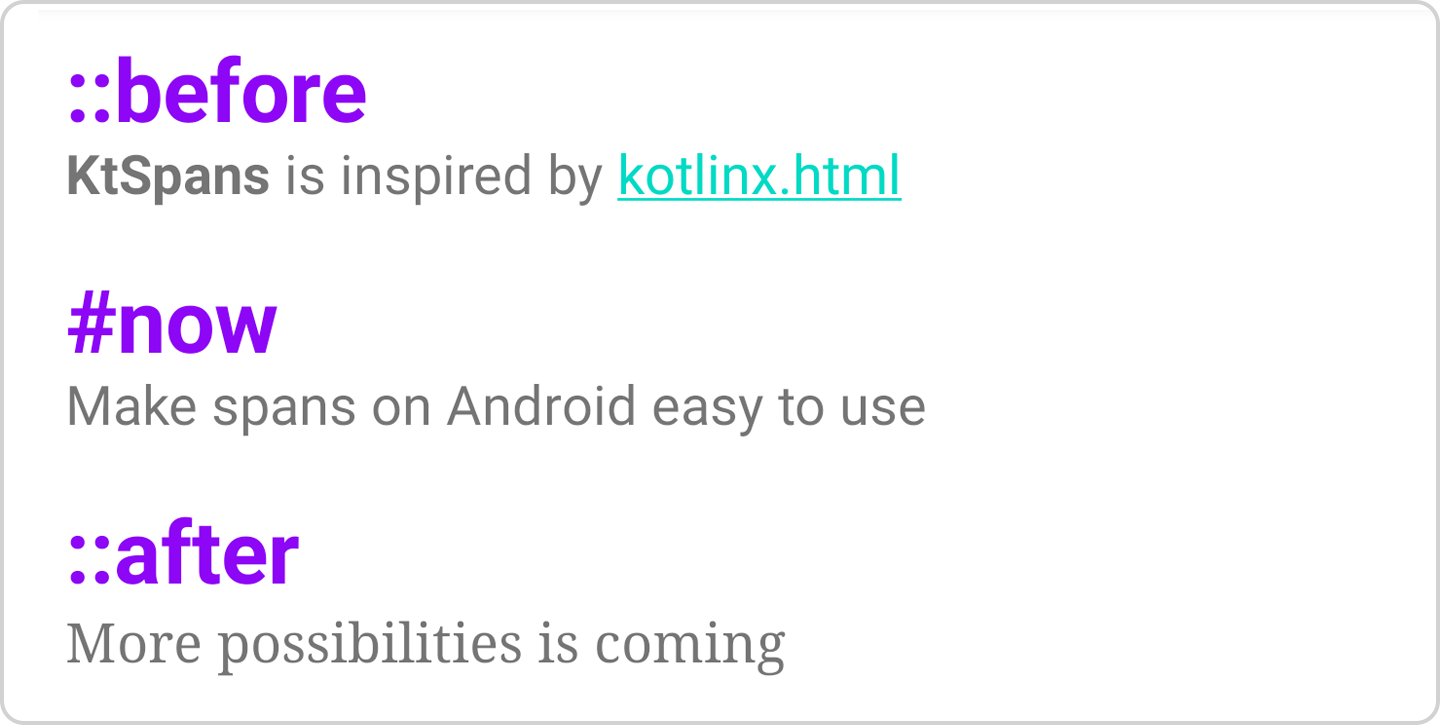
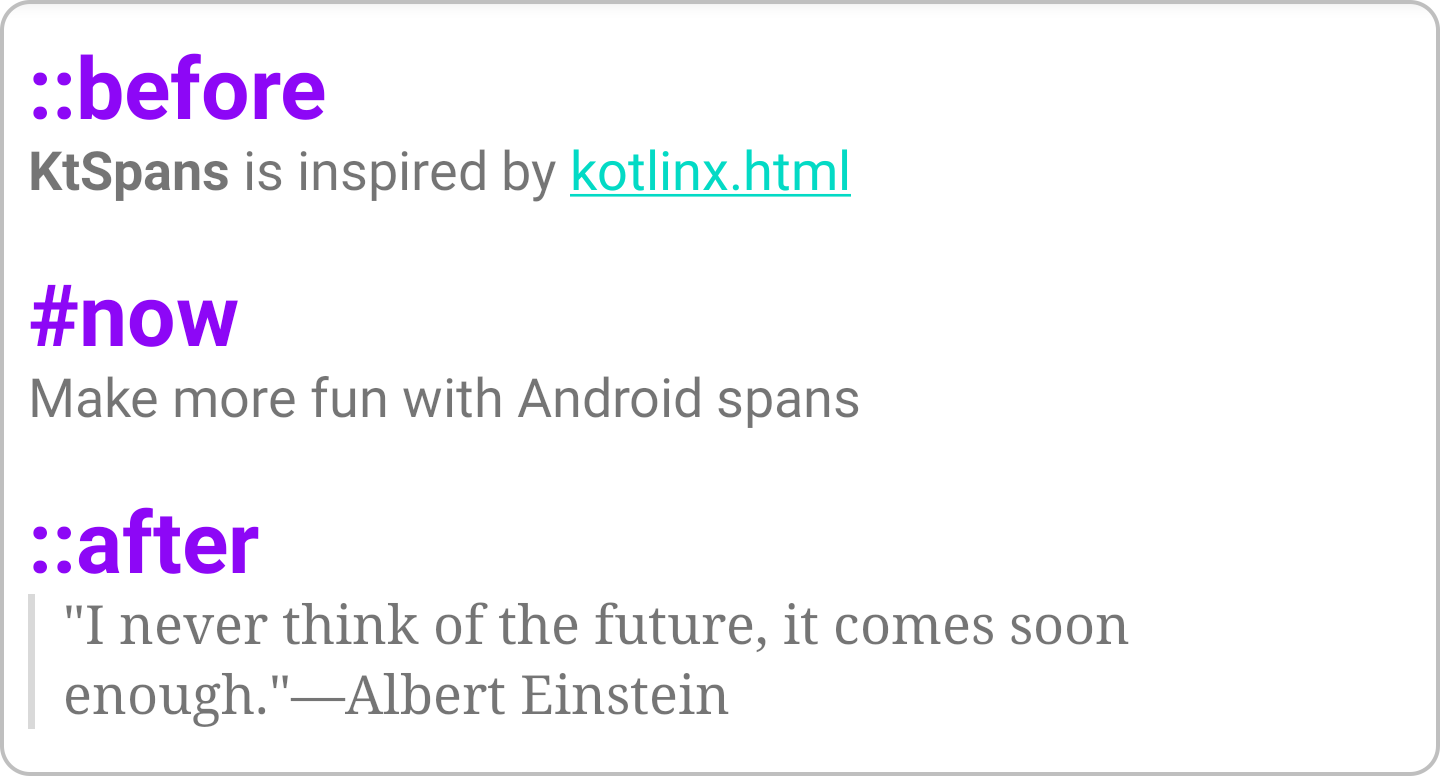
Update sample and README.md

diff --git a/sample/src/main/java/com/dokar/ktspansexample/MainActivity.kt b/sample/src/main/java/com/dokar/ktspansexample/MainActivity.kt
@@ -121,6 +121,17 @@ class MainActivity : AppCompatActivity() {
                     +"View custom tags"
                 }
             }
+            br {}
+
+            p {
+                attrs {
+                    fontStyle = Typeface.BOLD
+                    align = Layout.Alignment.ALIGN_CENTER
+                }
+                clickable({ showAbout() }) {
+                    +"Ideas"
+                }
+            }
         }
     }
 
@@ -361,6 +372,47 @@ class MainActivity : AppCompatActivity() {
                 }
             }
 
+            +footer()
+        }
+    }
+
+    private fun showAbout() {
+        textView.text = createSpanned {
+            style {
+                h3 {
+                    color = 0xFF8D07F6.toInt()
+                }
+                quote {
+                    stripeColor = 0x72AAAAAA
+                    stripeWidth = 2.dp
+                    gapWidth = 8.dp
+                }
+                "serif-font" {
+                    fontFamily = Typeface.SERIF
+                }
+            }
+
+            h3 { +"::before" }
+            p {
+                b { +"KtSpans" }
+                +" is inspired by "
+                a("https://github.com/Kotlin/kotlinx.html") {
+                    +"kotlinx.html"
+                }
+            }
+            br {}
+            h3 { +"#now" }
+            p {
+                +"Make more fun with Android spans"
+            }
+            br {}
+            h3 { +"::after" }
+            quote {
+                className = "serif-font"
+                +"\"I never think of the future, it comes soon enough.\"—Albert Einstein"
+            }
+
+            br {}
             +footer()
         }
     }

diff --git a/sample/src/main/java/com/dokar/ktspansexample/ktspans.ext.kt b/sample/src/main/java/com/dokar/ktspansexample/ktspans.ext.kt
@@ -6,15 +6,16 @@ import com.dokar.ktspansexample.spans.DashedHrSpan
 // extension function for span dsl
 @SpanTagMarker
 inline fun Tag.dashedHr(crossinline body: DashedHr.() -> Unit) {
-    val tag = DashedHr(root)
-    tag.body()
+    val tag = DashedHr(root).also(body)
     // Generate default attributes if it does not exists.
     root!!.defaultStyle.dashedHr {}
     // Apply attributes
     val attrs = (tag.attrs ?: root!!.attrs(tag.name)) as DashedHrAttributes
     val height = attrs.height.value
+    // color is built-in attr in Attributes
     val color = attrs.color
-    // Insert into parent tag
+    // Insert into parent tag, if isBlockElement = true, a new line
+    // will be inserted after tag
     insertTag(tag, arrayOf(DashedHrSpan(height, color)), isBlockElement = true)
 }
 
@@ -30,9 +31,7 @@ inline fun StyleSheet.dashedHr(body: DashedHrAttributes.() -> Unit) {
 // extension function for fullAttrs
 @StyleTagMarker
 inline fun DashedHr.fullAttrs(body: DashedHrAttributes.() -> Unit) {
-    val attrs = DashedHrAttributes()
-    attrs.body()
-    this.attrs = attrs
+    this.attrs = DashedHrAttributes().also(body)
 }
 
 // custom attributes

diff --git a/README.md b/README.md
@@ -14,21 +14,26 @@ Add dependency to project:
 implementation 'io.github.dokar3:ktspans:1.0.3'
 ```
 
-Create our span like this:
+Create spanned:
 
 ```kotlin
 textView.text = createSpanned {
     style {
-        h3 { 
-            color = 0xFF8D07F6.toInt() 
+        h3 {
+            color = 0xFF8D07F6.toInt()
         }
-        "serif" { 
-            fontFamily = Typeface.SERIF 
+        quote {
+            stripeColor = 0x72AAAAAA
+            stripeWidth = 2.dp
+            gapWidth = 8.dp
+        }
+        "serif-font" {
+            fontFamily = Typeface.SERIF
         }
     }
 
     h3 { +"::before" }
-    p { 
+    p {
         b { +"KtSpans" }
         +" is inspired by "
         a("https://github.com/Kotlin/kotlinx.html") {
@@ -38,18 +43,18 @@ textView.text = createSpanned {
     br {}
     h3 { +"#now" }
     p {
-        +"Make spans on Android easy to use"
+        +"Make more fun with Android spans"
     }
     br {}
     h3 { +"::after" }
-    p {
-        className = "serif"
-        +"More possibilities is comming"
+    quote {
+        className = "serif-font"
+        +"\"I never think of the future, it comes soon enough.\"—Albert Einstein"
     }
 }
 ```
 
-And we got this:
+The result:
 
 ![](./arts/screenshot_01_clipped.png)
 
@@ -219,9 +224,7 @@ class DashedHr(root: IRoot?) : SelfClosingTag(NAME, root) {
 ```kotlin
 @StyleTagMarker
 inline fun DashedHr.fullAttrs(body: DashedHrAttributes.() -> Unit) {
-    val attrs = DashedHrAttributes()
-    attrs.body()
-    this.attrs = attrs
+    this.attrs = DashedHrAttributes().also(body)
 }
 ```
 
@@ -230,8 +233,7 @@ inline fun DashedHr.fullAttrs(body: DashedHrAttributes.() -> Unit) {
 ```kotlin
 @SpanTagMarker
 inline fun Tag.dashedHr(crossinline body: DashedHr.() -> Unit) {
-    val tag = DashedHr(root)
-    tag.body()
+    val tag = DashedHr(root).also(body)
     root!!.defaultStyle.dashedHr {}
     val attrs = (tag.attrs ?: root!!.attrs(tag.name)) as DashedHrAttributes
     val height = attrs.height.value

diff --git a/README_zh.md b/README_zh.md
@@ -14,7 +14,7 @@
 implementation 'io.github.dokar3:ktspans:1.0.3'
 ```
 
-像下面这样创建span：
+创建 Spanned：
 
 ```kotlin
 textView.text = createSpanned {
@@ -22,7 +22,12 @@ textView.text = createSpanned {
         h3 {
             color = 0xFF8D07F6.toInt()
         }
-        "serif" {
+        quote {
+            stripeColor = 0x72AAAAAA
+            stripeWidth = 2.dp
+            gapWidth = 8.dp
+        }
+        "serif-font" {
             fontFamily = Typeface.SERIF
         }
     }
@@ -38,18 +43,18 @@ textView.text = createSpanned {
     br {}
     h3 { +"#now" }
     p {
-        +"Make spans on Android easy to use"
+        +"Make more fun with Android spans"
     }
     br {}
     h3 { +"::after" }
-    p {
-        className = "serif"
-        +"More possibilities is comming"
+    quote {
+        className = "serif-font"
+        +"\"I never think of the future, it comes soon enough.\"—Albert Einstein"
     }
 }
 ```
 
-显示将会是这样的：
+结果：
 
 ![](./arts/screenshot_01_clipped.png)
 
@@ -218,9 +223,7 @@ class DashedHr(root: IRoot?) : SelfClosingTag(NAME, root) {
 ```kotlin
 @StyleTagMarker
 inline fun DashedHr.fullAttrs(body: DashedHrAttributes.() -> Unit) {
-    val attrs = DashedHrAttributes()
-    attrs.body()
-    this.attrs = attrs
+    this.attrs = DashedHrAttributes().also(body)
 }
 ```
 
@@ -229,8 +232,7 @@ inline fun DashedHr.fullAttrs(body: DashedHrAttributes.() -> Unit) {
 ```kotlin
 @SpanTagMarker
 inline fun Tag.dashedHr(crossinline body: DashedHr.() -> Unit) {
-    val tag = DashedHr(root)
-    tag.body()
+    val tag = DashedHr(root).also(body)
     root!!.defaultStyle.dashedHr {}
     val attrs = (tag.attrs ?: root!!.attrs(tag.name)) as DashedHrAttributes
     val height = attrs.height.value
